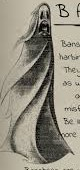
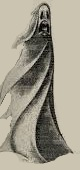
Holy ghosts and ghost types upd

diff --git a/WebDev/ghosttypes.html b/WebDev/ghosttypes.html
@@ -5,7 +5,7 @@
     </head>
     <body>
         <div class="links">
-            <a href="index.html" class="link">Index</a>
+            <a href="index.html" class="link">Home Page</a>
             <a href="ghosttypes.html" class="link">Ghost Types</a>
             <a href="equipment.html" class="link">Equipment</a>
             <a href="maptips.html" class="link">Map Tips</a>
@@ -36,6 +36,7 @@
         content: "";
         display: table;
         clear: both;
+        
         }
 
         /* Responsive layout - when the screen is less than 800px wide, make the two columns stack on top of each other instead of next to each other */
@@ -53,118 +54,118 @@
         <div class="leftcolumn">
             <div class="card">
             <h2>Aswang</h2>
-            <img class='aswangimg'src="aswang.jpg" alt="aswang">
-            <p>The Aswang is a vampiric creature heavily empowered by the death of players. Every time it successfully kills a hunter during a match, its movement speed permanently increases, making it exponentially deadlier over time. To counter this aggressive snowball effect, players must lay down lines of salt, which actively slow the Aswang down when walked through.</p>
+            <img class='ghostimages'src="aswang.jpg" alt="aswang">
+            <p class="column">The Aswang is a vampiric creature heavily empowered by the death of players. Every time it successfully kills a hunter during a match, its movement speed permanently increases, making it exponentially deadlier over time. To counter this aggressive snowball effect, players must lay down lines of salt, which actively slow the Aswang down when walked through.</p>
             </div>
             <div class="card">
             <h2>Banshee</h2>
-            <div class="fakeimg" style="height:200px;"></div>
-            <p>The Banshee acts as a loud harbinger of doom, interacting intensely with fragile environments. It is known to target and shatter multiple panes of glass, mirrors, or light bulbs at once when navigating a map. Crucially, it can emit a highly distinctive, mourning wail right at the beginning of a hunt, giving players an immediate audio cue to identify it.</p>
+            <img class='ghostimages'src="banshee.jpg" alt="banshee">
+            <p class="column">The Banshee acts as a loud harbinger of doom, interacting intensely with fragile environments. It is known to target and shatter multiple panes of glass, mirrors, or light bulbs at once when navigating a map. Crucially, it can emit a highly distinctive, mourning wail right at the beginning of a hunt, giving players an immediate audio cue to identify it.</p>
             </div>
             <div class="card">
             <h2>Demon</h2>
-            <div class="fakeimg" style="height:200px;"></div>
-            <p>The Demon stands out as an incredibly hostile threat that targets players even at exceptionally high energy levels. It possesses an incredibly fast hunt frequency, meaning it can chain hunts back-to-back with minimal cooldown time. To aid in survival, the protective Cross item has an expanded range against this entity and will uniquely cause the Demon to float or spin in place while burning.</p>
+            <img class='ghostimages'src="demon.jpg" alt="demon">
+            <p class="column">The Demon stands out as an incredibly hostile threat that targets players even at exceptionally high energy levels. It possesses an incredibly fast hunt frequency, meaning it can chain hunts back-to-back with minimal cooldown time. To aid in survival, the protective Cross item has an expanded range against this entity and will uniquely cause the Demon to float or spin in place while burning.</p>
             </div>
             <div class="card">
             <h2>Dullahan</h2>
-            <div class="fakeimg" style="height:200px;"></div>
-            <p>The Dullahan functions as a terrifying headless horseman that relies heavily on direct sightlines to kill. Its core hunting mechanic causes it to steadily gain movement speed the longer it maintains an uninterrupted line of sight with a player. Hunters can easily identify this ghost by pulling out a photo camera; it will uniquely appear entirely headless in captured photographs.</p>
+            <img class='ghostimages'src="dullahan.jpg" alt="dullahan">
+            <p class="column">The Dullahan functions as a terrifying headless horseman that relies heavily on direct sightlines to kill. Its core hunting mechanic causes it to steadily gain movement speed the longer it maintains an uninterrupted line of sight with a player. Hunters can easily identify this ghost by pulling out a photo camera; it will uniquely appear entirely headless in captured photographs.</p>
             </div>
             <div class="card">
             <h2>Dybbuk</h2>
-            <div class="fakeimg" style="height:200px;"></div>
-            <p>The Dybbuk is a malicious entity that interacts aggressively with dead players and physics. It has the unique ability to hurl or launch dead player corpses through the air outside of hunts. Its primary weakness lies in its vulnerability to cursed music items; activating a Music Box will instantly stun the Dybbuk in place while the melody plays.</p>
+            <img class='ghostimages'src="dybbuk.jpg" alt="dybbuk">
+            <p class="column">The Dybbuk is a malicious entity that interacts aggressively with dead players and physics. It has the unique ability to hurl or launch dead player corpses through the air outside of hunts. Its primary weakness lies in its vulnerability to cursed music items; activating a Music Box will instantly stun the Dybbuk in place while the melody plays.</p>
             </div>
             <div class="card">
             <h2>Entity</h2>
-            <div class="fakeimg" style="height:200px;"></div>
-            <p>The Entity is a highly dynamic threat that breaks standard positioning rules by utilizing short-range teleportation. It can instantly teleport across different rooms on a job site to confuse investigators. Furthermore, when it interacts with furniture or objects, it teleports them directly to its current location, leaving behind a signature coloured smoke trail.</p>
+            <img class='ghostimages'src="entity.jpg" alt="entiity">
+            <p class="column">The Entity is a highly dynamic threat that breaks standard positioning rules by utilizing short-range teleportation. It can instantly teleport across different rooms on a job site to confuse investigators. Furthermore, when it interacts with furniture or objects, it teleports them directly to its current location, leaving behind a signature coloured smoke trail.</p>
             </div>
             <div class="card">
             <h2>Ghoul</h2>
-            <div class="fakeimg" style="height:200px;"></div>
-            <p>The Ghoul is a loud, chaotic ghost type that is uniquely agitated by player activity and communication. It becomes heavily enraged and initiates immediate hunts if players talk too much, type rapidly in chat, or spam queries into the Spirit Box. However, its distinct electronic weakness prevents it from shorting out lights or disabling gear during a hunt.</p>
+            <img class='ghostimages'src="ghoul.jpg" alt="ghoul">
+            <p class="column">The Ghoul is a loud, chaotic ghost type that is uniquely agitated by player activity and communication. It becomes heavily enraged and initiates immediate hunts if players talk too much, type rapidly in chat, or spam queries into the Spirit Box. However, its distinct electronic weakness prevents it from shorting out lights or disabling gear during a hunt.</p>
             </div>
             <div class="card">
             <h2>Keres</h2>
-            <div class="fakeimg" style="height:200px;"></div>
-            <p>The Keres acts as an angel of death that actively preys upon the weak. It possesses a targeting mechanic that forces it to track down and chase the specific hunter currently holding the lowest energy levels. Despite this predatory nature, it has a notable fallback trait where its overall movement speed drops by 10% after securing a kill.</p>
+            <img class='ghostimages'src="keres.jpg" alt="keres">
+            <p class="column">The Keres acts as an angel of death that actively preys upon the weak. It possesses a targeting mechanic that forces it to track down and chase the specific hunter currently holding the lowest energy levels. Despite this predatory nature, it has a notable fallback trait where its overall movement speed drops by 10% after securing a kill.</p>
             </div>
             <div class="card">
             <h2>Leviathan</h2>
-            <div class="fakeimg" style="height:200px;"></div>
-            <p>The Leviathan is a highly active spirit capable of throwing multiple environmental objects at the exact same time. Unlike most ghosts that suffer a strict action cooldown, its item throws can overlap, which triggers a distinctive laser-like "zing" audio cue. It is also the only ghost type in the game capable of flipping light switches completely off outside of active hunts.</p>
+            <img class='ghostimages'src="leviathan.jpg" alt="leviathan">
+            <p class="column">The Leviathan is a highly active spirit capable of throwing multiple environmental objects at the exact same time. Unlike most ghosts that suffer a strict action cooldown, its item throws can overlap, which triggers a distinctive laser-like "zing" audio cue. It is also the only ghost type in the game capable of flipping light switches completely off outside of active hunts.</p>
             </div>
             <div class="card">
             <h2>Nightmare</h2>
-            <div class="fakeimg" style="height:200px;"></div>
-            <p>The Nightmare preys entirely on the senses by inducing complex auditory and environmental hallucinations. It can trick players by projecting fake broken glass noises or lowering room temperatures across non-ghost rooms to mask its true location. It deals much better with total darkness, receiving a massive spike in hunt frequency if players leave its room dark.</p>
+            <img class='ghostimages'src="nightmare.jpg" alt="nightmare">
+            <p class="column">The Nightmare preys entirely on the senses by inducing complex auditory and environmental hallucinations. It can trick players by projecting fake broken glass noises or lowering room temperatures across non-ghost rooms to mask its true location. It deals much better with total darkness, receiving a massive spike in hunt frequency if players leave its room dark.</p>
             </div>
             <div class="card">
             <h2>Oni</h2>
-            <div class="fakeimg" style="height:200px;"></div>
-            <p>The Oni is widely feared as one of the fastest passively moving threats in the game. During active hunts, it continuously sprints at maximum speed, producing exceptionally fast, heavy footstep sounds that warn players not to loop it. Outside of hunts, it exhibits a high manifestation rate, frequently showing its physical model to players.</p>
+            <img class='ghostimages'src="oni.jpg" alt="oni">
+            <p class="column">The Oni is widely feared as one of the fastest passively moving threats in the game. During active hunts, it continuously sprints at maximum speed, producing exceptionally fast, heavy footstep sounds that warn players not to loop it. Outside of hunts, it exhibits a high manifestation rate, frequently showing its physical model to players.</p>
             </div>
             <div class="card">
             <h2>Phantom</h2>
-            <div class="fakeimg" style="height:200px;"></div>
-            <p>The Phantom behaves as an ethereal apparition that alters standard hunt visibility mechanics. While pursuing players, it blinks back and forth between a visible state and an invisible state at a much slower rate than typical ghosts. This makes it harder to track visually, especially because it moves significantly faster while it is completely invisible.</p>
+            <img class='ghostimages'src="phantom.jpg" alt="phantom">
+            <p class="column">The Phantom behaves as an ethereal apparition that alters standard hunt visibility mechanics. While pursuing players, it blinks back and forth between a visible state and an invisible state at a much slower rate than typical ghosts. This makes it harder to track visually, especially because it moves significantly faster while it is completely invisible.</p>
             </div>
             <div class="card">
             <h2>Revenant</h2>
-            <div class="fakeimg" style="height:200px;"></div>
-            <p>The Revenant is a vengeful, relentless entity built purely to terrorize groups in rapid succession. It possesses an incredibly low hunt cooldown, giving survivors virtually no time to rest or gather evidence between aggressive phases. Its single saving grace is that if it manages to successfully kill a hunter, its active hunt instantly cuts short.</p>
+            <img class='ghostimages'src="revenant.jpg" alt="revenant">
+            <p class="column">The Revenant is a vengeful, relentless entity built purely to terrorize groups in rapid succession. It possesses an incredibly low hunt cooldown, giving survivors virtually no time to rest or gather evidence between aggressive phases. Its single saving grace is that if it manages to successfully kill a hunter, its active hunt instantly cuts short.</p>
             </div>
             <div class="card">
             <h2>Shadow</h2>
-            <div class="fakeimg" style="height:200px;"></div>
-            <p>The Shadow is a passive and incredibly timid entity that completely avoids human contact. It prefers to reside in absolute darkness, meaning its physical and supernatural activity drops off significantly in well-lit rooms. Because it blends so deeply with its surroundings, it barely changes environmental temperatures, making thermometer readings oddly high.</p>
+            <img class='ghostimages'src="shadow.jpg" alt="shadow">
+            <p class="column">The Shadow is a passive and incredibly timid entity that completely avoids human contact. It prefers to reside in absolute darkness, meaning its physical and supernatural activity drops off significantly in well-lit rooms. Because it blends so deeply with its surroundings, it barely changes environmental temperatures, making thermometer readings oddly high.</p>
             </div>
             <div class="card">
             <h2>Siren</h2>
-            <div class="fakeimg" style="height:200px;"></div>
-            <p>The Siren acts as a deceptive manipulator of player movement and standard equipment. Any hunter that gets caught in the direct line of sight of a Siren during a hunt will have their movement speed forcefully reduced, making escape difficult. Additionally, it interacts uniquely with the Spirit Box by emitting an eerie humming sound rather than a vocal response.</p>
+            <img class='ghostimages'src="siren.jpg" alt="siren">
+            <p class="column">The Siren acts as a deceptive manipulator of player movement and standard equipment. Any hunter that gets caught in the direct line of sight of a Siren during a hunt will have their movement speed forcefully reduced, making escape difficult. Additionally, it interacts uniquely with the Spirit Box by emitting an eerie humming sound rather than a vocal response.</p>
             </div>
             <div class="card">
             <h2>Skinwalker</h2>
-            <div class="fakeimg" style="height:200px;"></div>
-            <p>The Skinwalker is an extremely deceptive shape-shifter that roams away from its favorite room to mimic other entities. It can actively steal and use the signature passive traits of other ghosts—such as throwing objects like a Leviathan or wailing like a Banshee. To make matters worse, it can project entirely fake Ghost Orbs to trick players into choosing the wrong identity.</p>
+            <img class='ghostimages'src="skinwalker.jpg" alt="skinwalker">
+            <p class="column">The Skinwalker is an extremely deceptive shape-shifter that roams away from its favorite room to mimic other entities. It can actively steal and use the signature passive traits of other ghosts—such as throwing objects like a Leviathan or wailing like a Banshee. To make matters worse, it can project entirely fake Ghost Orbs to trick players into choosing the wrong identity.</p>
             </div>
             <div class="card">
             <h2>Specter</h2>
-            <div class="fakeimg" style="height:200px;"></div>
-            <p>The Specter is a highly territorial, localized ghost that is deeply bound to its favorite room. It will almost never roam or leave its room outside of hunts, often appearing completely stationary on scanning equipment. While it completely lacks aggressive hunt modifiers, it compensates by throwing surrounding objects around its room at a high rate.</p>
+            <img class='ghostimages'src="specter.jpg" alt="specter">
+            <p class="column">The Specter is a highly territorial, localized ghost that is deeply bound to its favorite room. It will almost never roam or leave its room outside of hunts, often appearing completely stationary on scanning equipment. While it completely lacks aggressive hunt modifiers, it compensates by throwing surrounding objects around its room at a high rate.</p>
             </div>
             <div class="card">
             <h2>Spirit</h2>
-            <div class="fakeimg" style="height:200px;"></div>
-            <p>The Spirit is an elemental entity with zero prominent tracking advantages or aggressive hunt strengths. Its primary mechanical identity revolves entirely around its ability to manipulate nearby open fire sources. It can interact with lit candles left by hunters, shifting the color of the flames to completely negate the candle's ability to reduce passive energy drain.</p>
+            <img class='ghostimages'src="spirit.jpg" alt="spirit">
+            <p class="column">The Spirit is an elemental entity with zero prominent tracking advantages or aggressive hunt strengths. Its primary mechanical identity revolves entirely around its ability to manipulate nearby open fire sources. It can interact with lit candles left by hunters, shifting the color of the flames to completely negate the candle's ability to reduce passive energy drain.</p>
             </div>
             <div class="card">
             <h2>The Wisp</h2>
-            <div class="fakeimg" style="height:200px;"></div>
-            <p>The Wisp is a swamp-born spirit with a heavy physical affinity for open fire and light sources. It can passively walk directly through ignited lines of Holy Oil, catching fire visually while completely ignoring the barrier. While it can roam freely, it always teleports back to its favorite room to begin an active hunt, and it can secretly relight blown-out candles.</p>
+            <img class='ghostimages'src="thewisp.jpg" alt="the wisp">
+            <p class="column">The Wisp is a swamp-born spirit with a heavy physical affinity for open fire and light sources. It can passively walk directly through ignited lines of Holy Oil, catching fire visually while completely ignoring the barrier. While it can roam freely, it always teleports back to its favorite room to begin an active hunt, and it can secretly relight blown-out candles.</p>
             </div>
             <div class="card">
             <h2>Umbra</h2>
-            <div class="fakeimg" style="height:200px;"></div>
-            <p>The Umbra is a weightless, shadow-born entity that moves around job sites like a silent predator. Because it is as light as air, it produces absolutely no footstep audio cues whatsoever while actively hunting down players. To balance this extreme stealth advantage, passing through well-lit rooms drastically drains its momentum and slows its movement speed.</p>
+            <img class='ghostimages'src="umbra.jpg" alt="umbra">
+            <p class="column">The Umbra is a weightless, shadow-born entity that moves around job sites like a silent predator. Because it is as light as air, it produces absolutely no footstep audio cues whatsoever while actively hunting down players. To balance this extreme stealth advantage, passing through well-lit rooms drastically drains its momentum and slows its movement speed.</p>
             </div>
             <div class="card">
             <h2>Vex</h2>
-            <div class="fakeimg" style="height:200px;"></div>
-            <p>The Vex is an anomalous entity that completely bypasses physical boundaries and scanning tools. It possesses a passive phase ability that allows it to float straight through solid doors and walls during hunts to cut off fleeing players. Furthermore, it remains entirely invisible to LIDAR map scanners, yielding zero red dots or spatial tracking points.</p>
+            <img class='ghostimages'src="vex.jpg" alt="vex">
+            <p class="column">The Vex is an anomalous entity that completely bypasses physical boundaries and scanning tools. It possesses a passive phase ability that allows it to float straight through solid doors and walls during hunts to cut off fleeing players. Furthermore, it remains entirely invisible to LIDAR map scanners, yielding zero red dots or spatial tracking points.</p>
             </div>
             <div class="card">
             <h2>Wendigo</h2>
-            <div class="fakeimg" style="height:200px;"></div>
-            <p>The Wendigo is a monstrous, malformed entity that grows much stronger as a match turns sour. Its movement speed steadily escalates based on the decreasing energy levels of the hunters present around it. Despite its sheer power during hunts, it is deeply afraid of fire and cannot initiate a hunt if it is close to open flames.</p>
+            <img class='ghostimages'src="wendigo.jpg" alt="wendigo">
+            <p class="column">The Wendigo is a monstrous, malformed entity that grows much stronger as a match turns sour. Its movement speed steadily escalates based on the decreasing energy levels of the hunters present around it. Despite its sheer power during hunts, it is deeply afraid of fire and cannot initiate a hunt if it is close to open flames.</p>
             </div>
             <div class="card">
             <h2>Wraith</h2>
-            <div class="fakeimg" style="height:200px;"></div>
-            <p>The Wraith targets human sanity and energy levels at a highly accelerated rate. Merely standing inside a job site haunted by a Wraith drains player energy significantly faster than any other ghost type in the game. Its fatal identifying flaw is that it hovers off the floor; if it walks over a line of salt, it triggers no physical disturbance.</p>
+            <img class='ghostimages'src="wraith.jpg" alt="wraith">
+            <p class="column">The Wraith targets human sanity and energy levels at a highly accelerated rate. Merely standing inside a job site haunted by a Wraith drains player energy significantly faster than any other ghost type in the game. Its fatal identifying flaw is that it hovers off the floor; if it walks over a line of salt, it triggers no physical disturbance.</p>
             </div>
         </div>
         </div>

diff --git a/WebDev/equipment.html b/WebDev/equipment.html
@@ -5,7 +5,7 @@
     </head>
     <body>
         <div class="links">
-            <a href="index.html" class="link">Index</a>
+            <a href="index.html" class="link">Home Page</a>
             <a href="ghosttypes.html" class="link">Ghost Types</a>
             <a href="equipment.html" class="link">Equipment</a>
             <a href="maptips.html" class="link">Map Tips</a>

diff --git a/WebDev/kitty.html b/WebDev/kitty.html
@@ -6,7 +6,7 @@
     </head>
     <body>
         <div class="links">
-            <a href="index.html" class="link">Index</a>
+            <a href="index.html" class="link">Home Page</a>
             <a href="ghosttypes.html" class="link">Ghost Types</a>
             <a href="equipment.html" class="link">Equipment</a>
             <a href="maptips.html" class="link">Map Tips</a>

diff --git a/WebDev/maptips.html b/WebDev/maptips.html
@@ -5,7 +5,7 @@
     </head>
     <body>
         <div class="links">
-            <a href="index.html" class="link">Index</a>
+            <a href="index.html" class="link">Home Page</a>
             <a href="ghosttypes.html" class="link">Ghost Types</a>
             <a href="equipment.html" class="link">Equipment</a>
             <a href="maptips.html" class="link">Map Tips</a>

diff --git a/WebDev/main.css b/WebDev/main.css
@@ -96,6 +96,11 @@ p {
     font-size: 50px;
 }
 
-.aswangimg {
+.ghostimages {
     border-radius: 10px;
+    display: inline-block;
+}
+.colummn {
+    display: inline-block;
+    width: 70%;
 }
